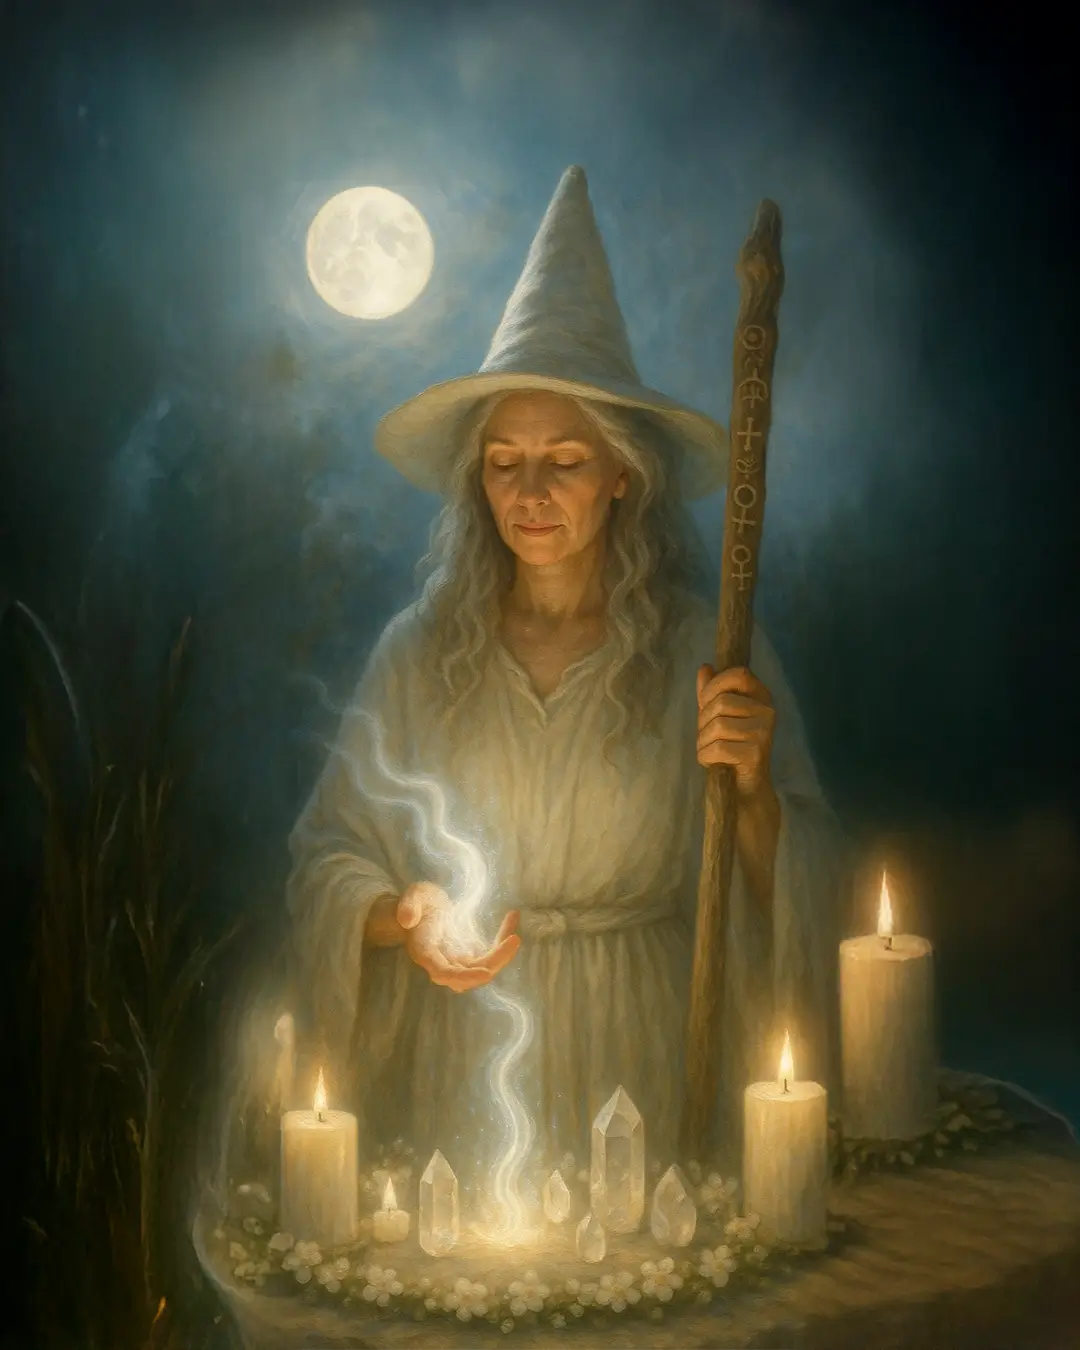
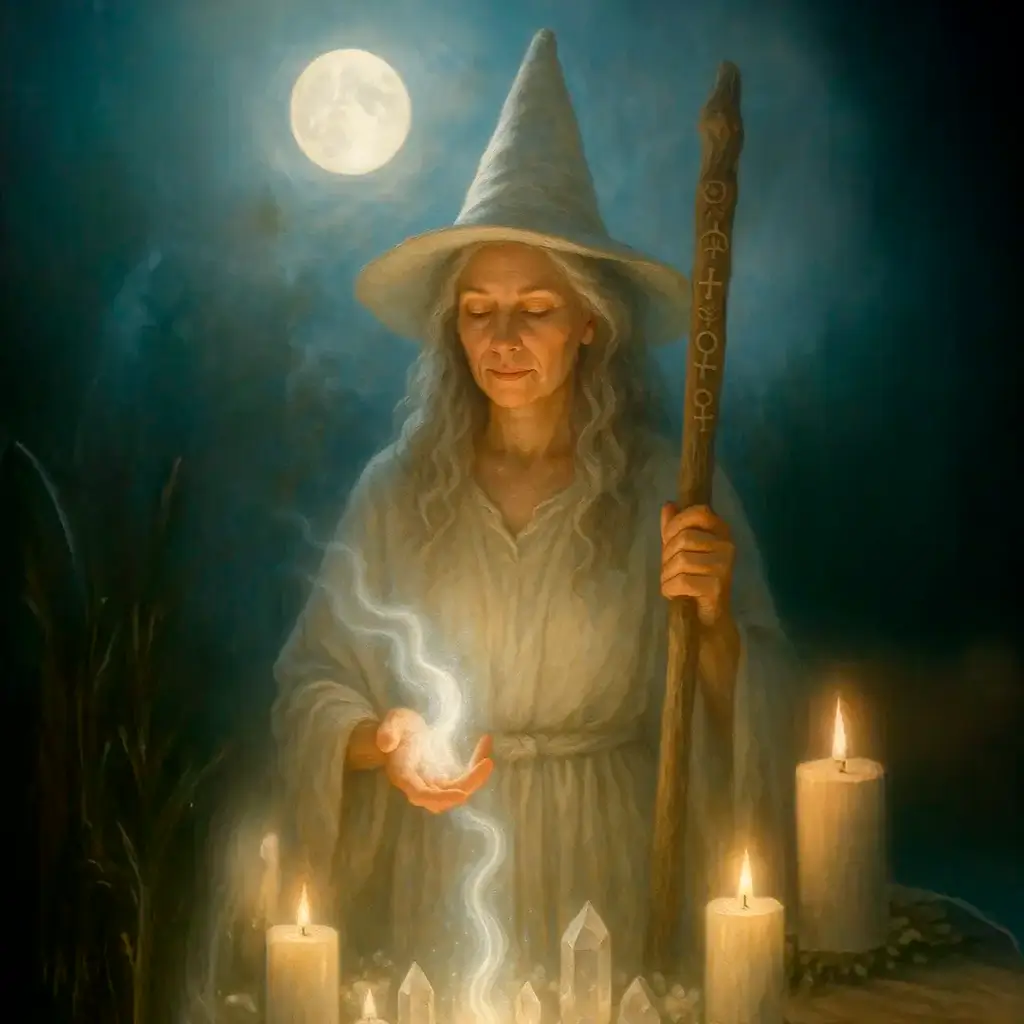
se arreglan imagenes documental

diff --git a/app/components/EpisodesSlider/index.js b/app/components/EpisodesSlider/index.js
@@ -24,11 +24,17 @@ const slides = [
     image: '/images/cruz.webp',
     title: 'El otro lado \n de la Creencia'
   }
+  ,
+  {
+    id: 5,
+    image: '/images/vela.webp',
+    title: 'Entre sombras \ny Luces'
+  }
 ];
 
 export default function EpisodesSlider() {
   const [activeIndex, setActiveIndex] = useState(0);
-  
+
   const getVisibleSlides = () => {
     const prev = activeIndex === 0 ? slides.length - 1 : activeIndex - 1;
     const next = activeIndex === slides.length - 1 ? 0 : activeIndex + 1;
@@ -55,8 +61,8 @@ export default function EpisodesSlider() {
               >
                 <div className={`
                   relative overflow-hidden rounded-lg transition-all duration-700
-                  ${position === 1 
-                    ? 'w-[550px] h-[500px] opacity-100' // Reduced from 800px to 700px
+                  ${position === 1
+                    ? 'w-[500px] h-[500px] opacity-100' 
                     : 'w-[300px] h-[400px] opacity-60 hover:opacity-80 translate-y-12'} // Increased from opacity-40 to opacity-60
                 `}>
                   <Image
@@ -75,7 +81,7 @@ export default function EpisodesSlider() {
                         {slides[slideIndex].title}
                       </h3>
                       <button className="px-4 py-2 bg-white text-black rounded-full hover:scale-105 transition-transform flex items-center gap-2">
-                        <Image 
+                        <Image
                           src="/images/play.svg"
                           alt="Play icon"
                           width={24}

diff --git a/app/documental/page.js b/app/documental/page.js
@@ -39,16 +39,21 @@ export default function DocumentalPage() {
             Entre Sombras <br /> y Luces
           </h1>
 
-          <button className="px-4 py-1 bg-white text-black rounded-full hover:scale-105 transition-transform text-lg flex items-center gap-2">
+          <a
+            href="https://www.youtube.com/@entresombrasyluces-i7t"
+            target="_blank"
+            rel="noopener noreferrer"
+            className="inline-flex items-center gap-2 px-4 py-1 bg-white text-black rounded-full hover:scale-105 transition-transform text-lg cursor-pointer"
+          >
             <Image
               src="/images/videoY.svg"
-              alt="Video icon"
+              alt="Instagram icon"
               width={32}
               height={32}
-              className="brightness-0" // Makes the SVG black to match text
+              className="brightness-0"
             />
             Ver más
-          </button>
+          </a>
         </div>
 
         {/* Texto inferior - moved up and made single line */}
